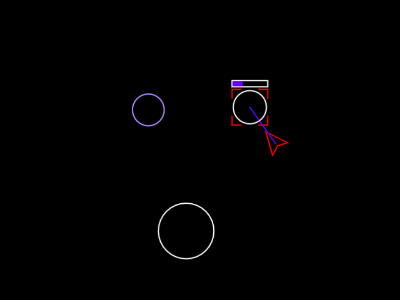
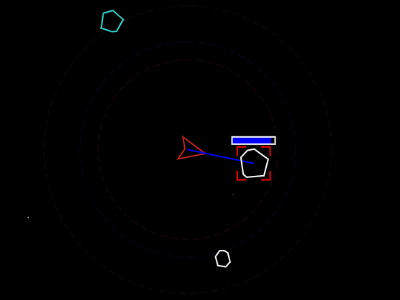
zgah: Added small text when collecting materials. Minor improvements.

diff --git a/pages/zgah/zgah_classes.js b/pages/zgah/zgah_classes.js
@@ -23,6 +23,7 @@ class Lerper {
         this.d = d;
         this.elapsed = 0;
         this.active = true;
+        this.vals = {good:false}; // Can hold additional values per lerper.
     }
 
     Tick(dT) {
@@ -52,6 +53,7 @@ class Lurker {
         this.d = d;
         this.elapsed = 0;
         this.active = true;
+        this.vals = {good:false}; // Can hold additional values per lurker.
     }
 
     Tick(dT) {
@@ -104,6 +106,8 @@ class Ship {
         this.hitDist = 125;
         this.hitDistUpgradeFactor = 1.006;
 
+        this.attractFactor = 1;
+        this.attractUpgradeFactor = 1.005;
         this.attractDist = 200;
         this.attractDistUpgradeFactor = 1.005;
 
@@ -122,6 +126,11 @@ class Ship {
         this.canScan = true;
         this.canHit = true;
         this.canAttract = true;
+
+        // Displays upgrades on the screen for a time.
+        this.upgrades = [];
+        this.upgradesTimes = [];
+        this.upgradesTimeMax = 1500;
 
         if (this.type === 1) {
             // Miner.
@@ -210,19 +219,30 @@ class Ship {
     Collect(t) {
         if (!this.canCollect) { return; }
 
+        let txt = "";
+
         if (t === 0) {
             this.scanDist *= this.scanDistUpgradeFactor;
             this.scanFactor *= this.scanUpgradeFactor;
+            txt = "+ scanning";
         } else if (t === 1) {
             this.hitDist *= this.hitDistUpgradeFactor;
             this.hitFactor *= this.hitUpgradeFactor;
+            txt = "+ mining";
         } else if (t === 2) {
             this.turnSpeed *= this.turnSpeedUpgradeFactor;
+            txt = "+ turning";
         } else if (t === 3) {
+            this.attractFactor *= this.attractUpgradeFactor;
             this.attractDist *= this.attractDistUpgradeFactor;
+            txt = "+ attractor";
         } else if (t === 4) {
             this.moveSpeed *= this.moveSpeedUpgradeFactor;
+            txt = "+ movement";
         }
+
+        this.upgrades.push(txt);
+        this.upgradesTimes.push(this.upgradesTimeMax);
     }
 
     // On collision with an asteroid, this function is called.
@@ -317,6 +337,16 @@ class Ship {
         }
 
         this.target = null;
+
+        // For on screen displays of upgrades.
+        for (let i = 0; i < this.upgrades.length; i++) {
+            this.upgradesTimes[i] -= dT;
+
+            if (this.upgradesTimes[i] <= 0) {
+                this.upgrades.splice(i, 1);
+                this.upgradesTimes.splice(i, 1);
+            }
+        }
     }
     
     Draw(ctx) {
@@ -460,6 +490,36 @@ class Ship {
                 ctx.closePath();
                 ctx.stroke();
             }
+        }
+
+        // Drawing upgrades around the user ship.
+        let tmpUpgrades = [];
+        let tmpUpgradesTimes = [];
+        for (let i = this.upgrades.length-1; i >= 0; i--) {
+            if (!tmpUpgrades.includes(this.upgrades[i])) {
+                tmpUpgrades.push(this.upgrades[i]);
+                tmpUpgradesTimes.push(this.upgradesTimes[i]);
+            }
+        }
+        for (let i = 0; i < tmpUpgrades.length; i++) {
+            if (tmpUpgrades[i].includes("scanning")) {
+                ctx.fillStyle = ColorsForType(0)[0];
+            } else if (tmpUpgrades[i].includes("mining")) {
+                ctx.fillStyle = ColorsForType(1)[0];
+            } else if (tmpUpgrades[i].includes("turning")) {
+                ctx.fillStyle = ColorsForType(2)[0];
+            } else if (tmpUpgrades[i].includes("attractor")) {
+                ctx.fillStyle = ColorsForType(3)[0];
+            } else if (tmpUpgrades[i].includes("movement")) {
+                ctx.fillStyle = ColorsForType(4)[0];
+            } else {
+                ctx.fillStyle = "white";
+            }
+            let fsize = 14;
+            ctx.font = "" + fsize + "px Verdana";
+            ctx.globalAlpha = tmpUpgradesTimes[i] / this.upgradesTimeMax;
+            ctx.fillText(tmpUpgrades[i], this.x + this.size/2, this.y + this.size + fsize*i);
+            ctx.globalAlpha = 1.0;
         }
     }
 }
@@ -705,12 +765,13 @@ class Material {
             }
         } else if (d < playerShip.attractDist) {
             if (playerShip.canAttract) {
+                // Normalize attractor speed with mag.
                 let dx = playerShip.x - (this.x + offsetX) + this.minMove;
                 let dy = playerShip.y - (this.y + offsetY) + this.minMove;
                 let mag = Math.sqrt(Math.pow(dx, 2) + Math.pow(dy, 2));
 
-                this.x += this.moveSpeed * dx/mag * dT;
-                this.y += this.moveSpeed * dy/mag * dT;
+                this.x += this.moveSpeed * playerShip.attractFactor * dx/mag * dT;
+                this.y += this.moveSpeed * playerShip.attractFactor * dy/mag * dT;
             }
         }
     }

diff --git a/pages/zgah/zgah_tut.js b/pages/zgah/zgah_tut.js
@@ -40,9 +40,10 @@ function DrawTutText(ctx, txt) {
 }
 
 var tut_lurkers = [];
+var tut_TEXT_TIME = 6000;
 
 tut_lurkers[0] = new Lurker(function (dT) {
-    if (this.elapsed > 5000) {
+    if (this.elapsed > tut_TEXT_TIME) {
         lurkers.push(tut_lurkers[1]);
         return false;
     }
@@ -186,9 +187,9 @@ ship. Blue improves scanning. Scan the next largest asteroid.");
 });
 
 tut_lurkers[6] = new Lurker(function (dT) {
-    if (this.elapsed >= 5000) {
+    if (this.elapsed >= tut_TEXT_TIME/2) {
         playerShip.canMove = true;
-        playerShip.respawnTime = 5000;
+        playerShip.respawnTime = tut_TEXT_TIME/2;
         lurkers.push(tut_lurkers[7]);
         return false;
     }
@@ -221,7 +222,7 @@ tut_lurkers[8] = new Lurker(function (dT) {
 });
 
 tut_lurkers[9] = new Lurker(function (dT) {
-    if (this.elapsed >= 5000) {
+    if (this.elapsed >= tut_TEXT_TIME) {
         asteroids[0].hitable = true;
         playerShip.canHit = true;
         lurkers.push(tut_lurkers[10]);
@@ -257,7 +258,7 @@ them to collect your upgrades!");
 });
 
 tut_lurkers[12] = new Lurker(function (dT) {
-    if (this.elapsed > 5000) {
+    if (this.elapsed > tut_TEXT_TIME) {
         asteroids[0].hitable = true;
         lurkers.push(tut_lurkers[13]);
         return false;
@@ -314,7 +315,7 @@ to continue to the real challenge.");
 });
 
 tut_lurkers[17] = new Lurker(function (dT) {
-    if (this.elapsed > 5000) {
+    if (this.elapsed > tut_TEXT_TIME) {
         Init(0, "shipSelect");
         return false;
     }

diff --git a/pages/zgah/zgah.js b/pages/zgah/zgah.js
@@ -496,8 +496,8 @@ function DrawStage() {
 
 function DrawUI() {
     if (levelName === "randomField") {
-        let fsize = 30;
-        let pad = 5;
+        let fsize = 36;
+        let pad = 10;
 
         context.font = "" + fsize + "px Verdana";
         let txt = "Materials: " + score + "/" + devGoal;
